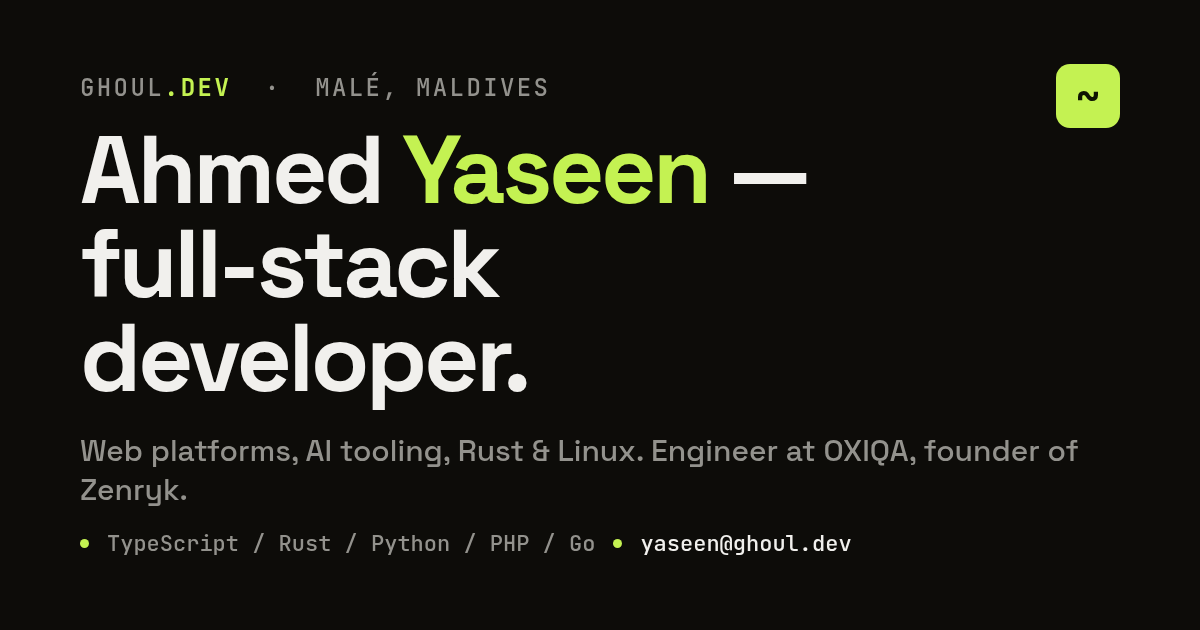
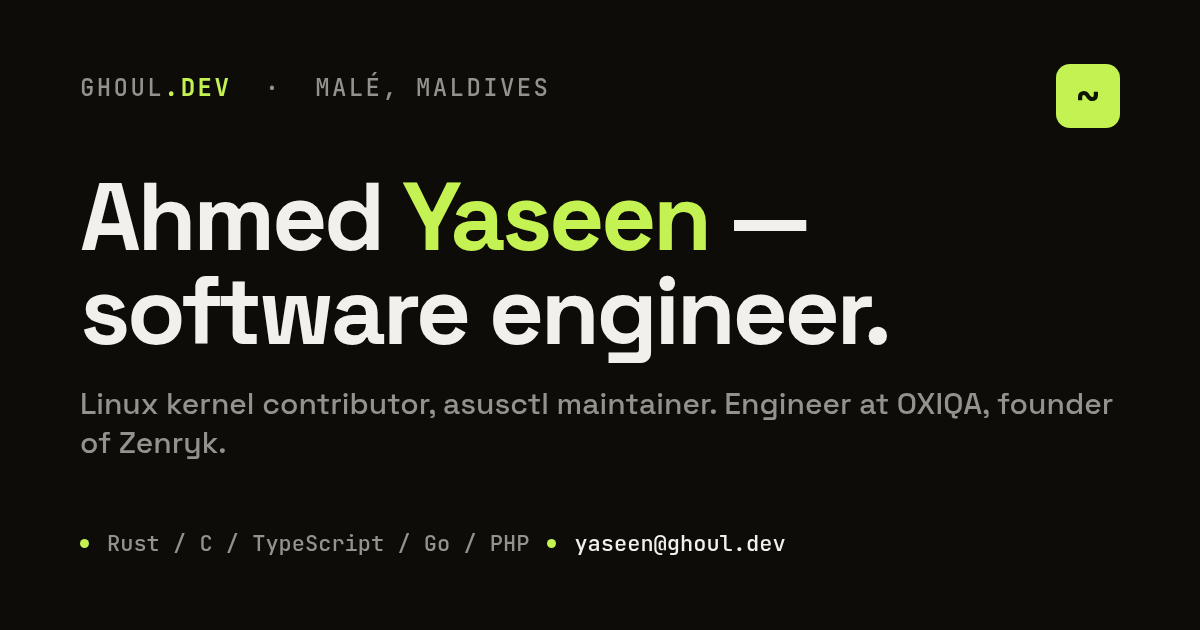
update kernel section to 4 mainline patches, mark asusctl maintainer, refresh OG card, weekly rebuild cron

diff --git a/src/lib/seo.ts b/src/lib/seo.ts
@@ -10,8 +10,8 @@ export const SITE = {
 export const DEFAULT_TITLE =
   'Ahmed Yaseen (Ghoul) — Linux Kernel Contributor in the Maldives · ghoul.dev';
 export const DEFAULT_DESCRIPTION =
-  'A Linux kernel contributor in the Maldives with a patch in the mainline tree. ' +
-  'Lead engineer at OXIQA, founder of Zenryk, building government platforms in ' +
+  'A Linux kernel contributor in the Maldives with patches in the mainline tree, ' +
+  'and maintainer of asusctl. Lead engineer at OXIQA, founder of Zenryk, building government platforms in ' +
   'Rust, Go, C, TypeScript and PHP.';
 
 // JSON-LD person graph for the homepage.
@@ -24,7 +24,7 @@ export function personJsonLd(): object {
     alternateName: ['Ahmed Yaseen', 'Yaseen', 'Ghoul', 'Ghoul4500'],
     url: SITE.url,
     email: `mailto:${SITE.email}`,
-    jobTitle: ['Software Engineer', 'Linux Kernel Contributor'],
+    jobTitle: ['Software Engineer', 'Linux Kernel Contributor', 'asusctl Maintainer'],
     image: `${SITE.url}/og-image.png`,
     description: DEFAULT_DESCRIPTION,
     nationality: { '@type': 'Country', name: 'Maldives' },

diff --git a/og-card.html b/og-card.html
@@ -28,10 +28,10 @@
     <div class="glyph">~</div>
     <div class="top">GHOUL<b>.DEV</b> &nbsp;·&nbsp; MALÉ, MALDIVES</div>
     <div>
-      <h1>Ahmed <span class="a">Yaseen</span> —<br>full-stack developer.</h1>
-      <div class="sub">Web platforms, AI tooling, Rust &amp; Linux. Engineer at OXIQA, founder of Zenryk.</div>
+      <h1>Ahmed <span class="a">Yaseen</span> —<br>software engineer.</h1>
+      <div class="sub">Linux kernel contributor, asusctl maintainer. Engineer at OXIQA, founder of Zenryk.</div>
     </div>
-    <div class="row"><span class="dot"></span><span>TypeScript / Rust / Python / PHP / Go</span><span class="dot"></span><span class="em">yaseen@ghoul.dev</span></div>
+    <div class="row"><span class="dot"></span><span>Rust / C / TypeScript / Go / PHP</span><span class="dot"></span><span class="em">yaseen@ghoul.dev</span></div>
   </div>
 </body>
 </html>
